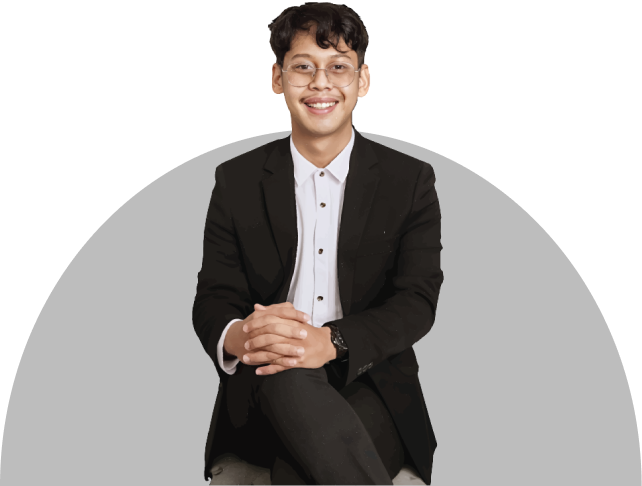
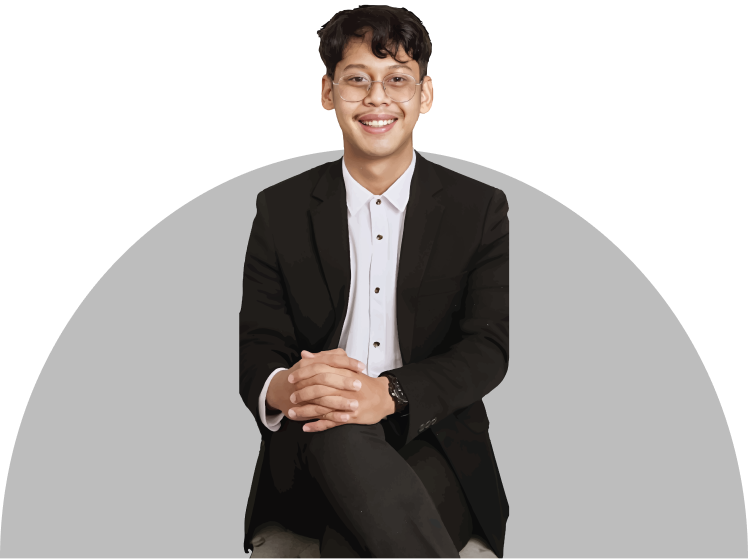
Ubah foto home page

diff --git a/src/assets/css/about.css b/src/assets/css/about.css
@@ -1,0 +1,70 @@
+.profilePhoto {
+    overflow: visible;
+    width: 190px;
+    height: 254px;
+  }
+  
+  .content {
+    width: 100%;
+    height: 100%;
+    transform-style: preserve-3d;
+    transition: transform 300ms;
+    box-shadow: 0px 0px 10px 1px #000000ee;
+    border-radius: 5px;
+  }
+  
+  .front, .back {
+    background-color: #151515;
+    position: absolute;
+    width: 100%;
+    height: 100%;
+    backface-visibility: hidden;
+    -webkit-backface-visibility: hidden;
+    border-radius: 5px;
+    overflow: hidden;
+  }
+  
+  .back {
+    width: 100%;
+    height: 100%;
+    justify-content: center;
+    display: flex;
+    align-items: center;
+    overflow: hidden;
+  }
+  
+  .back::before {
+    position: absolute;
+    content: ' ';
+    display: block;
+    width: 160px;
+    height: 160%;
+    background: linear-gradient(90deg, transparent, #72c1e8, #72c1e8, #72c1e8, #72c1e8, transparent);
+    animation: rotation_481 5000ms infinite linear;
+  }
+  
+  .back-content {
+    position: absolute;
+    width: 99%;
+    height: 99%;
+  background: linear-gradient(to right, #030816, #061838, #051737, #030816);
+    border-radius: 5px;
+    color: white;
+    display: flex;
+    flex-direction: column;
+    justify-content: center;
+    align-items: center;
+    gap: 30px;
+  }
+
+  
+  @keyframes rotation_481 {
+    0% {
+      transform: rotateZ(0deg);
+    }
+  
+    0% {
+      transform: rotateZ(360deg);
+    }
+  }
+  

diff --git a/src/components/Home/content1.js b/src/components/Home/content1.js
@@ -1,8 +1,6 @@
 import React, { Component } from "react";
-import foto1 from "../../assets/images/FotoProfileGede.png";
-import foto3 from "../../assets/images/FotoProfile4.png";
-import foto2 from "../../assets/images/FotoProfile3.png";
-import foto4 from "../../assets/images/FotoProfile2.png";
+import foto1 from "../../assets/images/FotoProfile1.png";
+import foto2 from "../../assets/images/FotoProfile2.png";
 
 class content1 extends Component {
   componentDidMount() {
@@ -98,18 +96,18 @@ class content1 extends Component {
               {/* <h1 className="text-5xl">Brawijaya</h1>
               <h3 className="text-2xl">University</h3> */}
             </div>
-            <div className="z-10 hidden 2xl:block">
+            <div className="z-10 hidden 2xl:block relative bottom-0">
               <img src={foto1} alt="" />
             </div>
             <div className="z-10 hidden lg:block 2xl:hidden">
-              <img src={foto3} alt="" />
+              <img src={foto2} alt="" />
             </div>
             <div className="z-10 hidden md:block lg:hidden 2xl:hidden mt-3">
               <img src={foto2} alt="" />
             </div>
 
             <div className="text-right text-warna1">
-              <h1 className="text-5xl">1 Years</h1>
+              <h1 className="text-4xl">1 Years</h1>
               <h3 className="text-2xl">Experience</h3>
             </div>
           </div>

diff --git a/src/components/About/Content1.js b/src/components/About/Content1.js
@@ -1,0 +1,41 @@
+import React, { Component } from "react";
+import foto from "../../assets/images/Untitled-233.png";
+
+class Content1 extends Component {
+  render() {
+    return (
+      <div className="container mx-auto mt-5">
+        <div className="text-warna1 text-center">
+          <p>Who am i</p>
+        </div>
+
+        <div className="flex justify-center mt-16">
+          <div className="grid grid-4 grid-flow-col gap-16">
+            <div>
+              <div className="text-left text-warna1">
+                <p>Audima Oktasena</p>
+                <p>Front-End Web Developer</p>
+
+                <p>Hello everyone, my name is Audima Oktasena</p>
+              </div>
+            </div>
+
+            {/*  */}
+            {/* <div class="profilePhoto">
+              <div class="content">
+                <div class="back">
+                  <div class="back-content">
+                    <img src={foto} alt="" style={{ width: "74%" }} />
+                  </div>
+                </div>
+              </div>
+            </div> */}
+            {/*  */}
+          </div>
+        </div>
+      </div>
+    );
+  }
+}
+
+export default Content1;

diff --git a/src/components/Home/Content2.js b/src/components/Home/Content2.js
@@ -1,5 +1,4 @@
 import React, { Component } from "react";
-import foto2 from "../../assets/images/Untitled-1.png";
 
 class Content2 extends Component {
   componentDidMount() {
@@ -25,9 +24,7 @@ class Content2 extends Component {
           </div>
           <div className="hidden sm:block">
             <div className="flex justify-center mt-2 ">
-              <div className="z-10">
-                <img src={foto2} alt="" />
-              </div>
+              <div className="z-10">{/* <img src={foto2} alt="" /> */}</div>
             </div>
           </div>
           <div>test</div>

diff --git a/src/App.js b/src/App.js
@@ -3,12 +3,15 @@ import Home from "./components/Home/Home";
 import "./assets/css/global.css";
 import "./assets/css/buttoncv.css";
 import "./assets/css/icon.css";
+import "./assets/css/about.css";
+import About from "./components/About/About";
 
 function App() {
   return (
     <Router>
       <Routes>
         <Route path="/" element={<Home />} exact></Route>
+        <Route path="/about" element={<About />} exact></Route>
       </Routes>
     </Router>
   );

diff --git a/src/components/About/About.js b/src/components/About/About.js
@@ -1,0 +1,16 @@
+import React, { Component } from "react";
+import Content1 from "./Content1";
+import Header from "../Header/Header";
+
+class About extends Component {
+  render() {
+    return (
+      <div>
+        <Header />
+        <Content1 />
+      </div>
+    );
+  }
+}
+
+export default About;

diff --git a/src/components/Header/Header.js b/src/components/Header/Header.js
@@ -74,7 +74,7 @@ export default function Header() {
             Project
           </a>
           <a
-            href="#/"
+            href="/about"
             className={
               location.pathname === "/about"
                 ? "font-semibold leading-6 sm:text-base text-warna1 afterAccess"
